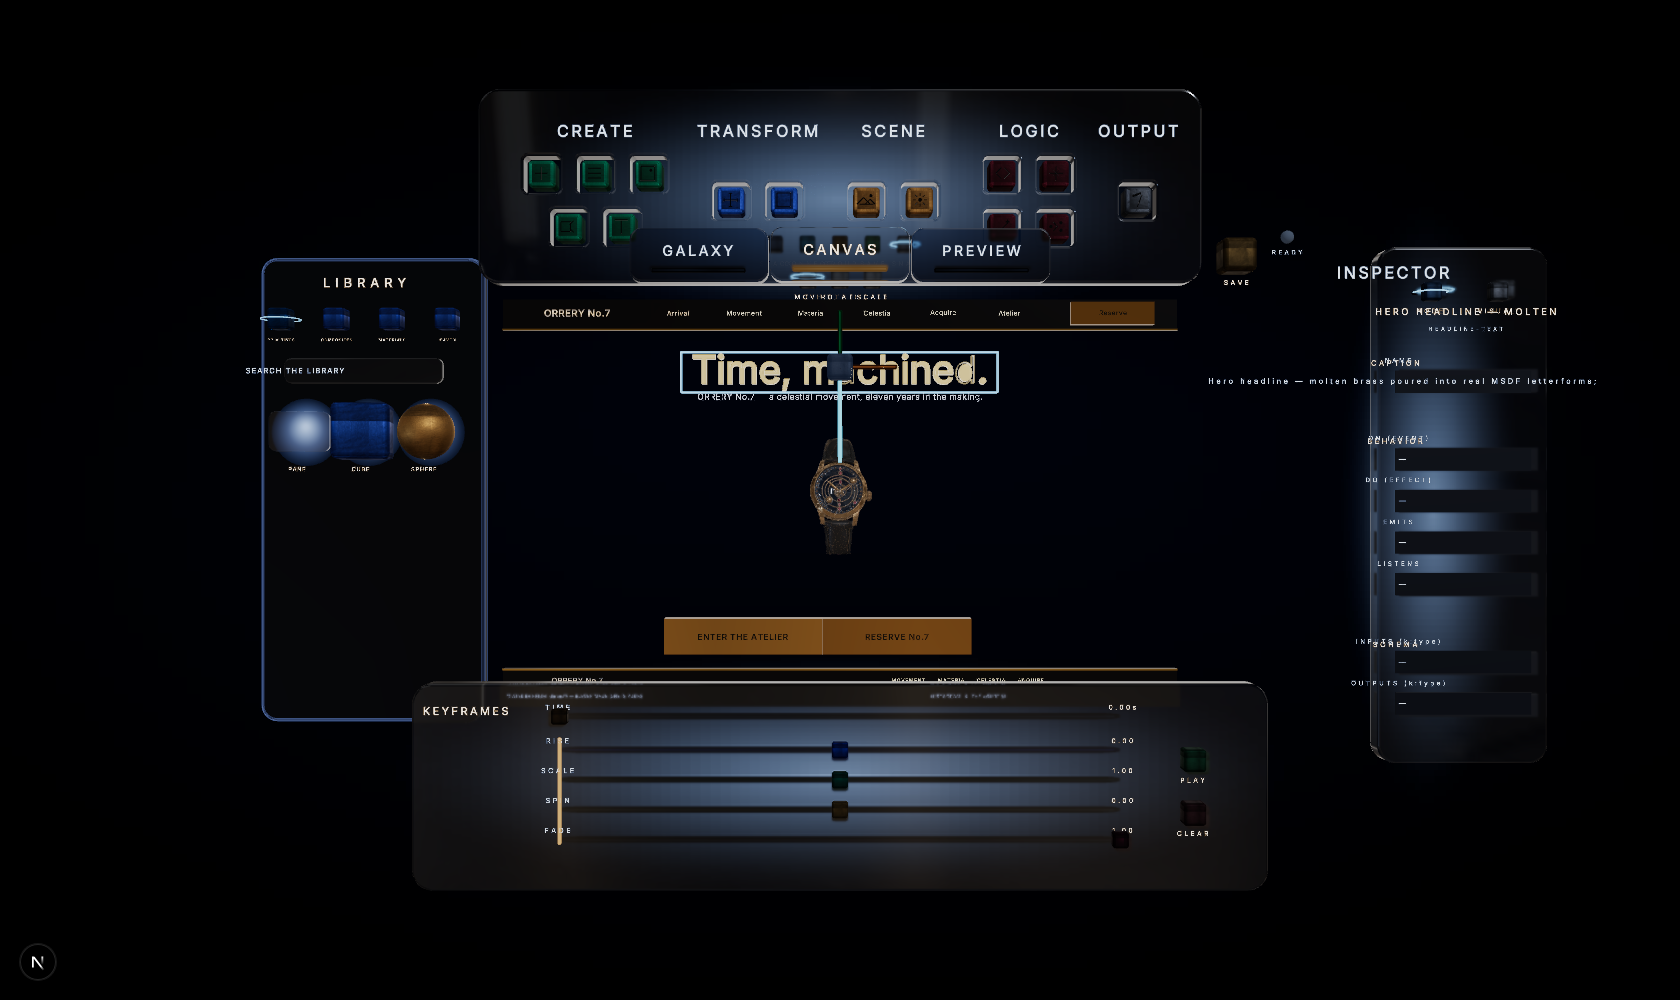
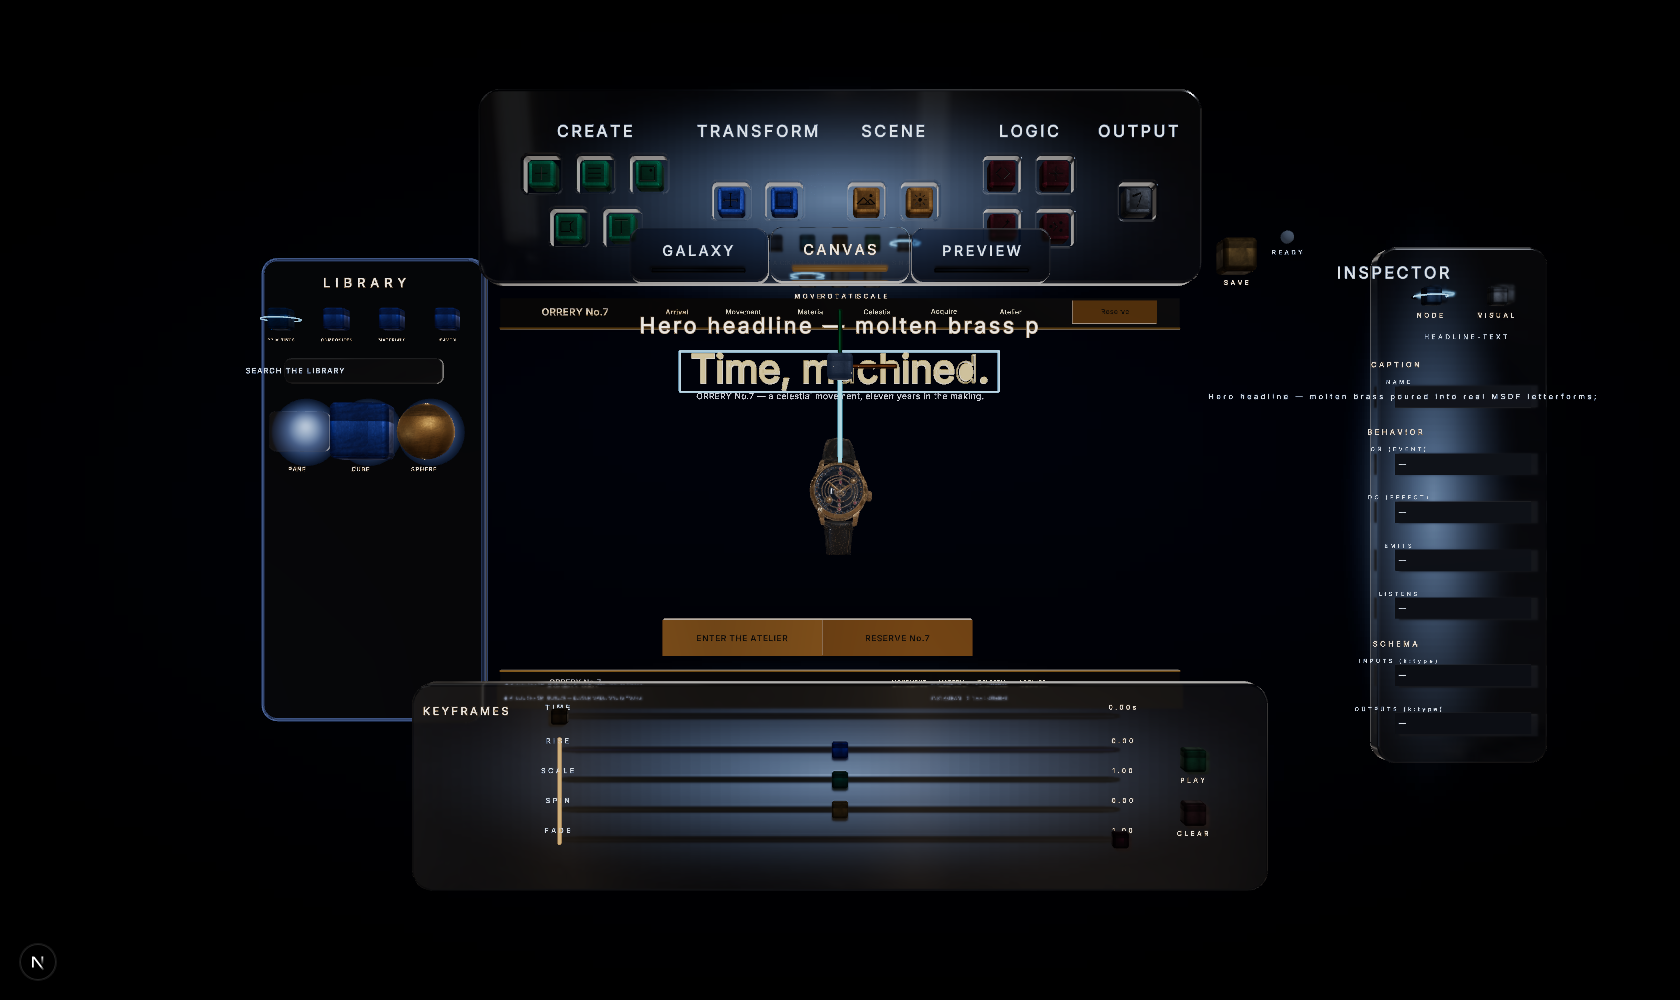
AUTO-CKPT: WS-W1 w-purpose — purpose edits LIVE + SYNCED (both ways) + ROUND-TRIP.
Node-editor caption/behavior/schema edits write the shared graph store and reflect
everywhere (INV-W8): added SelectedCaptionLabel — a bright in-canvas MSDF caption
floating above the selected node, reading the node's LIVE caption from the same store
the node editor writes. Editing CAPTION in the node editor updates the canvas label;
an external store edit (extSetCaption) updates the node editor + label — one store,
every surface reads it. Save->reload restores the edits EXACTLY (C4): caption/emits/
inputs persist through /api/prism/regen -> live-graph.json -> reload (intent serializes
verbatim). Additive: editor-shell/* only.

Verify: w-purpose 8/8 (live caption/behavior/schema; node-editor->canvas sync; canvas->
node-editor sync; save flushes dirty; reload round-trip; 0 console errors); panel smoke
still 7/7; gates no-dom-ui PASS, node-authorship --editor 7/7, tsc 0-new (9). Frames
notes/verification/ws-w1/purpose-0{1,2,3}-*.png.

diff --git a/kid-kode-landing/src/components/editor-shell/editor-node-editor.tsx b/kid-kode-landing/src/components/editor-shell/editor-node-editor.tsx
@@ -19,6 +19,9 @@
 // Editor CHROME (not a graph node — no prismEditorNode tag), so the
 // node-authorship gate ignores it. Window access is the editor-chrome exemption.
 
+import { useMemo, useRef } from 'react';
+import { useFrame } from '@react-three/fiber';
+import * as THREE from 'three';
 import { useGraphSourceStore } from '@/stores/useGraphSourceStore';
 import type {
   PrismNode,
@@ -161,6 +164,10 @@ export function installNodeEditorProbe(): () => void {
       commitFocusedField();
     },
     purpose: () => purposeOf(useEditorShellStore.getState().selectedId),
+    // VICE-VERSA sync proof: an external surface (canvas/clone/etc.) writes the
+    // caption straight to the shared store; the node editor + the in-canvas label
+    // must both reflect it because they read the same store (INV-W8).
+    extSetCaption: (id: string, text: string) => writeIntent(id, { caption: text }),
   };
   return () => {
     delete w.__PRISM_EDITOR_NODE_EDITOR__;
@@ -234,6 +241,74 @@ export function EditorNodeEditor({ position }: { position: [number, number, numb
         {(node.subtype ?? 'NODE').toString().toUpperCase().slice(0, 26)}
       </CompositeText>
       {els}
+    </group>
+  );
+}
+
+// ── the in-canvas SYNC proof (INV-W8) ────────────────────────────────────────
+// A bright MSDF caption floating above the SELECTED node in canvas, reading the
+// node's LIVE caption from the SAME shared store the node editor writes. Editing
+// the CAPTION field in the node editor updates this label in the canvas (and any
+// external change to the caption updates both) — one store, every surface reads
+// it. Scene-level + immune to the FitGroup scale (tracks the node's world bbox
+// each frame, like SelectionOverlay). Editor CHROME — NOT tagged prismEditorNode.
+function nodeGroupsMap(): Map<string, THREE.Object3D> | null {
+  if (typeof window === 'undefined') return null;
+  const w = window as unknown as { __PRISM_EDITOR_NODE_GROUPS__?: Map<string, THREE.Object3D> };
+  return w.__PRISM_EDITOR_NODE_GROUPS__ ?? null;
+}
+
+export function SelectedCaptionLabel() {
+  const selectedId = useEditorShellStore((s) => s.selectedId);
+  const view = useEditorShellStore((s) => s.view);
+  const caption = useGraphSourceStore((s) => {
+    const n = selectedId ? s.nodes.find((x) => x.nodeId === selectedId) : null;
+    return n?.intent?.caption ?? '';
+  });
+  const groupRef = useRef<THREE.Group>(null);
+  const box = useMemo(() => new THREE.Box3(), []);
+  const center = useMemo(() => new THREE.Vector3(), []);
+  const size = useMemo(() => new THREE.Vector3(), []);
+  const text = caption.trim().slice(0, 30) || '(unnamed)';
+
+  // publish the label state for the headless sync proof (editor chrome).
+  if (typeof window !== 'undefined') {
+    (window as unknown as Record<string, unknown>).__PRISM_EDITOR_CAPTION_LABEL__ = () => {
+      const g = groupRef.current;
+      return {
+        selectedId: useEditorShellStore.getState().selectedId,
+        view: useEditorShellStore.getState().view,
+        caption,
+        visible: !!g?.visible,
+      };
+    };
+  }
+
+  useFrame(() => {
+    const g = groupRef.current;
+    if (!g) return;
+    const map = nodeGroupsMap();
+    const target = selectedId && view === 'canvas' ? map?.get(selectedId) : null;
+    if (!target || !target.parent || !caption.trim()) {
+      g.visible = false;
+      return;
+    }
+    box.setFromObject(target, true);
+    if (box.isEmpty()) {
+      g.visible = false;
+      return;
+    }
+    box.getCenter(center);
+    box.getSize(size);
+    g.visible = true;
+    g.position.set(center.x, center.y + Math.max(size.y, 0.3) / 2 + 0.5, center.z);
+  });
+
+  return (
+    <group ref={groupRef} visible={false} renderOrder={22}>
+      <CompositeText fontSize={0.42} variant="bright">
+        {text}
+      </CompositeText>
     </group>
   );
 }

diff --git a/kid-kode-landing/src/components/editor-shell/EditorShellScene.tsx b/kid-kode-landing/src/components/editor-shell/EditorShellScene.tsx
@@ -27,6 +27,7 @@ import { EditorGizmo } from './EditorGizmo';
 import { EditorConnectors } from './EditorConnectors';
 import { EditorModeSwitch } from './EditorModeSwitch';
 import { EditorSaveControl } from './EditorSaveControl';
+import { SelectedCaptionLabel } from './editor-node-editor';
 import {
   useEditorShellStore,
   allGraphNodes,
@@ -243,6 +244,7 @@ export function EditorShellScene() {
       <EditorGraphViewport />
       <EditorConnectors />
       <SelectionOverlay />
+      <SelectedCaptionLabel />
       <EditorGizmo />
       <EditorDocks />
       <EditorToolbarDock />

diff --git a/kid-kode-landing/notes/SENTINEL-LIVE.md b/kid-kode-landing/notes/SENTINEL-LIVE.md
@@ -342,3 +342,6 @@ complete marker: 'PRISM-WS-W1: RUN COMPLETE'
 [02:22:16] WS-W1 · 18m · agent=1 · still building · 18m elapsed · agent up · 1011 commits · last: AUTO-CKPT: EDIT-I4 w-verify — THE BIG end-to-end pass (12/12) + 3 fresh-
 [02:25:47] WS-W1 · 21m · agent=1 · still building · 21m elapsed · agent up · 1011 commits · last: AUTO-CKPT: EDIT-I4 w-verify — THE BIG end-to-end pass (12/12) + 3 fresh-
 [02:29:17] WS-W1 · 25m · agent=1 · still building · 25m elapsed · agent up · 1011 commits · last: AUTO-CKPT: EDIT-I4 w-verify — THE BIG end-to-end pass (12/12) + 3 fresh-
+[02:32:48] WS-W1 · 28m · agent=1 · still building · 28m elapsed · agent up · 1012 commits · last: AUTO-CKPT: WS-W1 w-panel — in-engine glass NODE EDITOR docked in /editor
+[02:32:48] WS-W1 · 28m · agent=1 · commit 1107f34a — AUTO-CKPT: WS-W1 w-panel — in-engine glass NODE EDITOR docked in /editor
+[02:36:19] WS-W1 · 32m · agent=1 · still building · 32m elapsed · agent up · 1012 commits · last: AUTO-CKPT: WS-W1 w-panel — in-engine glass NODE EDITOR docked in /editor

diff --git a/kid-kode-landing/notes/MONITOR-FEED.md b/kid-kode-landing/notes/MONITOR-FEED.md
@@ -677,3 +677,6 @@ Toolbar fully REBUILT from GENERATED Tripo v3.1 GLBs (procedural forms discarded
 [02:22:16] CHAIN/WS-W1: still building · 18m elapsed · agent up · 1011 commits · last: AUTO-CKPT: EDIT-I4 w-verify — THE BIG end-to-end pass (12/12) + 3 fresh-
 [02:25:47] CHAIN/WS-W1: still building · 21m elapsed · agent up · 1011 commits · last: AUTO-CKPT: EDIT-I4 w-verify — THE BIG end-to-end pass (12/12) + 3 fresh-
 [02:29:17] CHAIN/WS-W1: still building · 25m elapsed · agent up · 1011 commits · last: AUTO-CKPT: EDIT-I4 w-verify — THE BIG end-to-end pass (12/12) + 3 fresh-
+[02:32:48] CHAIN/WS-W1: still building · 28m elapsed · agent up · 1012 commits · last: AUTO-CKPT: WS-W1 w-panel — in-engine glass NODE EDITOR docked in /editor
+[02:32:48] CHAIN/WS-W1: commit 1107f34a — AUTO-CKPT: WS-W1 w-panel — in-engine glass NODE EDITOR docked in /editor
+[02:36:19] CHAIN/WS-W1: still building · 32m elapsed · agent up · 1012 commits · last: AUTO-CKPT: WS-W1 w-panel — in-engine glass NODE EDITOR docked in /editor
